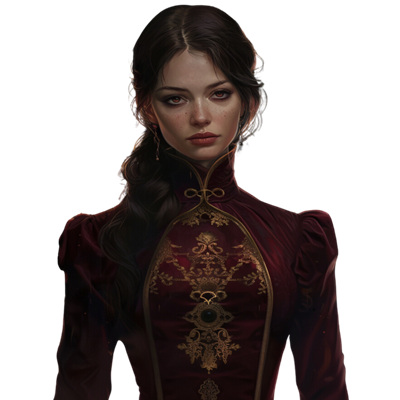
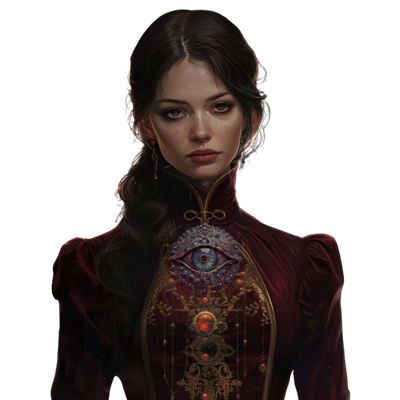
slider

diff --git a/index.html b/index.html
@@ -368,12 +368,12 @@
 									<div class="card-body">
 										<div class="row">
 											<div class="col-lg-8 col-md-8 col-sm-12 text-center">
-												<img class="img-fluid d-block" src="images/class/sniper.png" height="300px">
+												<img class="img-fluid d-block" src="images/class/Guardian.png" height="300px">
 											</div>
 											<div class="col-lg-4 col-md-4 col-sm-12">
 												<div class="carousel-caption text-left position-relative">
-													<h3>Sniper</h3>
-													<p>The one-shot wonder! (S)he can eliminate a Mafia member in a single shot, but if (s)he misses, it's game over for him/her. Caution: The Mafia Boss is bulletproof!</p>
+													<h3>Guardian</h3>
+													<p>a Villager with a one-time-use armor, can survive a daytime vote without dying, revealing their role in the process. If targeted by the Mafia at night while armored, they live without exposing their identity, possibly mistaken for a Doctor's save. However, an accurate Oracle guess can still eliminate an armored Guardian, just as it would any other citizen.</p>
 												</div>
 											</div>
 										</div>
